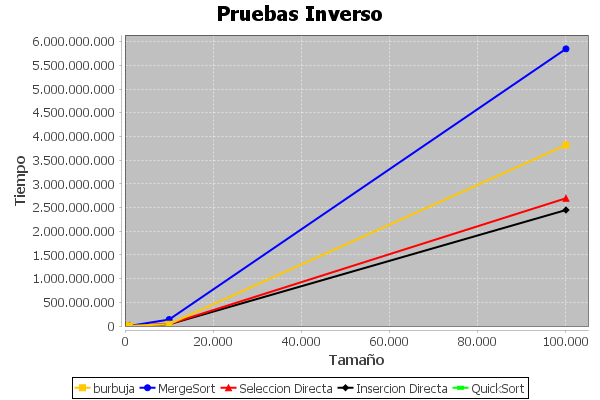
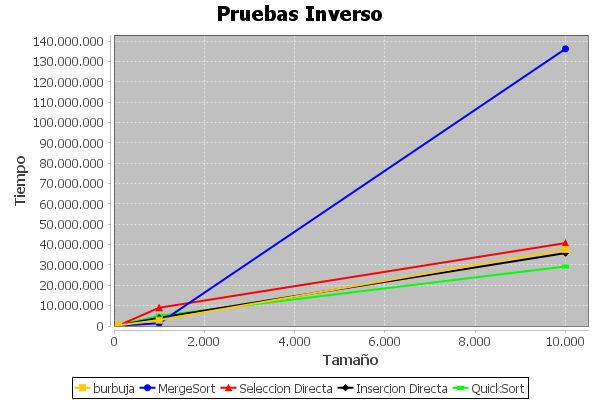
compila las graficas y me las imprime.

diff --git a/graficas/src/main/java/com/moragon/graficas/App.java b/graficas/src/main/java/com/moragon/graficas/App.java
@@ -16,13 +16,21 @@ public class App {
     public static void main(String[] args) throws Exception {
         DefaultXYDataset dataset = new DefaultXYDataset();
         //Una serie por cada metodo de ordenacion
-        dataset.addSeries("burbuja", new double[][]{{10, 100, 1000, 10000, 100000}, {5100, 341800, 2908900, 37671000/*, 3818753100.00*/}});
-        dataset.addSeries("MergeSort", new double[][]{{10, 100, 1000, 10000, 100000}, {8900, 166700, 1350100, 136244000/*, 5846967000.00*/}});
-        dataset.addSeries("Seleccion Directa", new double[][]{{10, 100, 1000, 10000, 100000}, {4200, 244300, 8973200, 40758100/*, 2694775700.00*/}});
-        dataset.addSeries("Insercion Directa", new double[][]{{10, 100, 1000, 10000, 100000}, {4000, 245200, 4040300, 35845300/*, 2446415100.00*/}});
-        dataset.addSeries("QuickSort", new double[][]{{10, 100, 1000, 10000}, {4800, 294300, 5016100, 29275300}});
+        //Pruebas inverso
+       // dataset.addSeries("burbuja", new double[][]{{10, 100, 1000, 10000/*, 100000*/}, {5100, 341800, 2908900, 37671000/*, 3818753100.00*/}});
+        //dataset.addSeries("MergeSort", new double[][]{{10, 100, 1000, 10000/*, 100000*/}, {8900, 166700, 1350100, 136244000/*, 5846967000.00*/}});
+        //dataset.addSeries("Seleccion Directa", new double[][]{{10, 100, 1000, 10000/*, 100000*/}, {4200, 244300, 8973200, 40758100/*, 2694775700.00*/}});
+        //dataset.addSeries("Insercion Directa", new double[][]{{10, 100, 1000, 10000/*, 100000*/}, {4000, 245200, 4040300, 35845300/*, 2446415100.00*/}});
+        //dataset.addSeries("QuickSort", new double[][]{{10, 100, 1000, 10000}, {4800, 294300, 5016100, 29275300}});
         //dataset.addSeries("busqueda Lineal", new double[][] {{10, 100, 1000, 10000, 100000 }, {82200,16600,146000,417600,1555000}});
         //dataset.addSeries("Busqueda Binaria", new double[][] {{ 10, 100, 1000, 10000,
+
+        //Pruebas aleatorio
+        dataset.addSeries("burbuja", new double[][]{{10, 100, 1000, 10000/*, 100000*/}, {5100, 341800, 2908900, 37671000/*, 3818753100.00*/}});
+        dataset.addSeries("MergeSort", new double[][]{{10, 100, 1000, 10000/*, 100000*/}, {8900, 166700, 1350100, 136244000/*, 5846967000.00*/}});
+        dataset.addSeries("Seleccion Directa", new double[][]{{10, 100, 1000, 10000/*, 100000*/}, {4200, 244300, 8973200, 40758100/*, 2694775700.00*/}});
+        dataset.addSeries("Insercion Directa", new double[][]{{10, 100, 1000, 10000/*, 100000*/}, {4000, 245200, 4040300, 35845300/*, 2446415100.00*/}});
+        dataset.addSeries("QuickSort", new double[][]{{10, 100, 1000, 10000}, {4800, 294300, 5016100, 29275300}});
 
         XYLineAndShapeRenderer renderer = new XYLineAndShapeRenderer();
         renderer.setSeriesPaint(0, Color.ORANGE);
